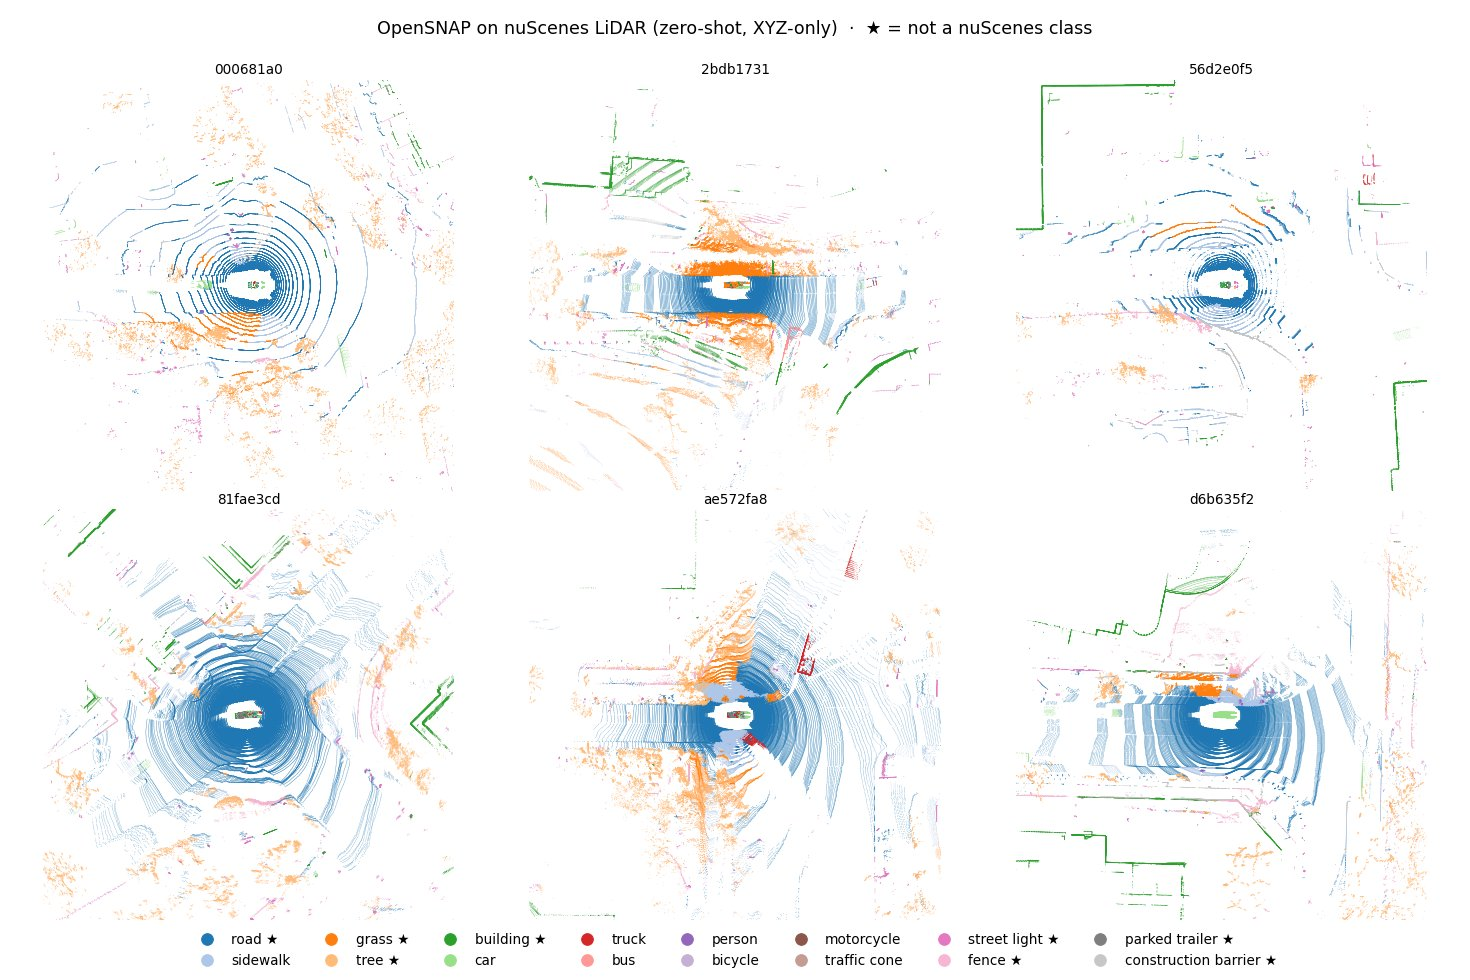
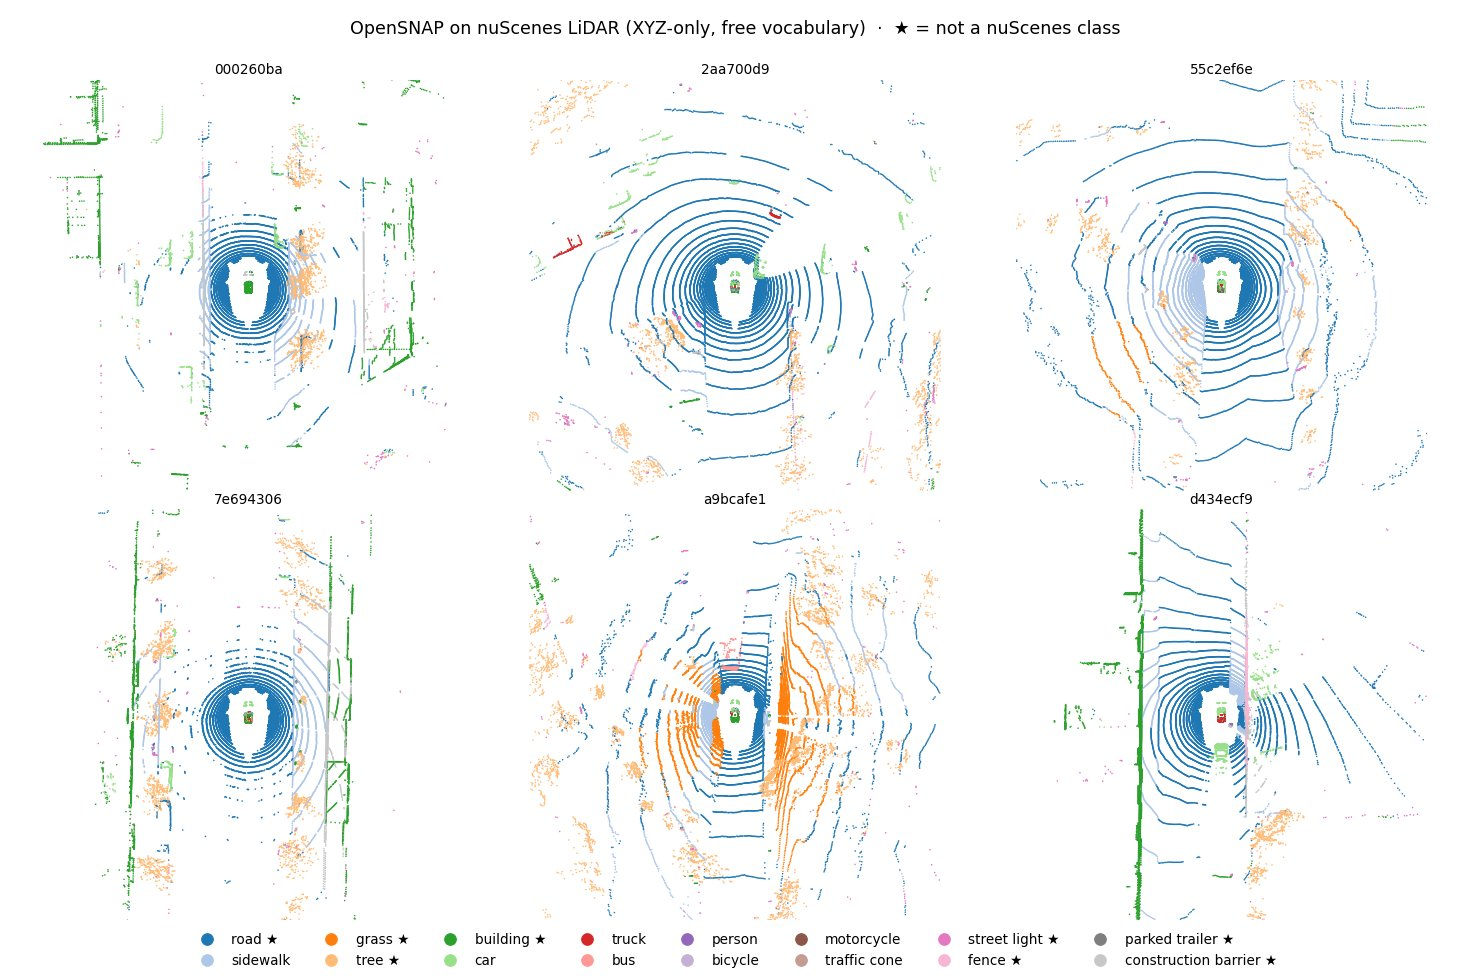
Outdoor gallery on official nuScenes

diff --git a/scripts/outdoor_gallery.py b/scripts/outdoor_gallery.py
@@ -21,7 +21,7 @@ NUSC = {"sidewalk", "car", "truck", "bus", "person", "bicycle", "motorcycle", "t
 def main():
     ap = argparse.ArgumentParser()
     ap.add_argument("--n", type=int, default=6)
-    ap.add_argument("--range", type=float, default=40.0)
+    ap.add_argument("--range", type=float, default=30.0)
     ap.add_argument("--out", default="assets/outdoor_gallery.jpg")
     a = ap.parse_args()
     from opensnap.core import Config, OpenSNAP
@@ -32,7 +32,7 @@ def main():
     dense = OpenSceneModel("../downloads/ckpt/nuscenes_openseg.pth.tar", "openseg", voxel_size=0.05)
     m = OpenSNAP(SnapModel("../downloads/ckpt/SNAP_C.pth", domain="Outdoor"), TextEncoder(), dense, TextEncoder(dense.clip_name),
                  Config(), anchors=snap_train_vocab())
-    files = sorted(glob.glob(os.path.join(paths.DOWNLOADS, "data", "nuscenes_3d", "val", "*.pth")))
+    files = sorted(glob.glob(os.path.join(paths.DOWNLOADS, "data", "nuscenes_official", "val", "*.pth")))
     files = files[:: len(files) // a.n][: a.n]
     cmap = plt.get_cmap("tab20")
     fig, axes = plt.subplots(2, (a.n + 1) // 2, figsize=(7 * ((a.n + 1) // 2), 14), facecolor="white")
@@ -42,12 +42,12 @@ def main():
         m.encode(coord)
         pred = m.semantic(m.propose(), VOCAB).argmax(1).cpu().numpy()
         k = (np.abs(coord[:, :2]) < a.range).all(1)
-        ax.scatter(coord[k, 0], coord[k, 1], c=cmap(pred[k] % 20), s=0.3, linewidths=0)
+        ax.scatter(coord[k, 0], coord[k, 1], c=cmap(pred[k] % 20), s=2.5, linewidths=0)
         ax.set_xlim(-a.range, a.range); ax.set_ylim(-a.range, a.range); ax.set_aspect("equal"); ax.axis("off")
         ax.set_title(os.path.basename(f)[:8], fontsize=14)
     handles = [plt.Line2D([], [], marker="o", ls="", color=cmap(i % 20), label=w + ("" if w in NUSC else " ★")) for i, w in enumerate(VOCAB)]
     fig.legend(handles=handles, loc="lower center", ncol=8, fontsize=14, markerscale=2, frameon=False)
-    fig.suptitle("OpenSNAP on nuScenes LiDAR (zero-shot, XYZ-only)  ·  ★ = not a nuScenes class", fontsize=18)
+    fig.suptitle("OpenSNAP on nuScenes LiDAR (XYZ-only, free vocabulary)  ·  ★ = not a nuScenes class", fontsize=18)
     plt.tight_layout(rect=(0, 0.05, 1, 0.97))
     os.makedirs(os.path.dirname(a.out), exist_ok=True)
     fig.savefig(a.out, dpi=70, pil_kwargs=dict(quality=85, optimize=True))

diff --git a/README.md b/README.md
@@ -96,7 +96,7 @@ text decoder's mask is shown instead. Failures are kept (e.g. `rug` → sofa, `s
 ![scannet_scene0568_00](assets/openvocab_gallery/scannet_scene0568_00.jpg)
 </details>
 
-<details open><summary><b>Outdoor LiDAR</b> (nuScenes val, zero-shot, XYZ-only)</summary>
+<details open><summary><b>Outdoor LiDAR</b> (nuScenes val, XYZ-only, free vocabulary)</summary>
 
 ![outdoor](assets/outdoor_gallery.jpg)
 
